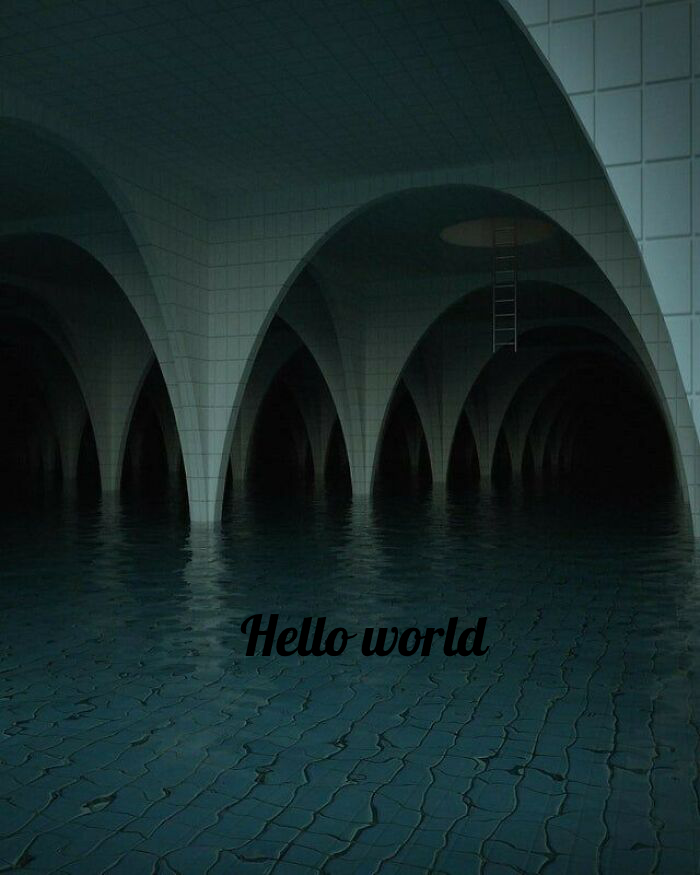
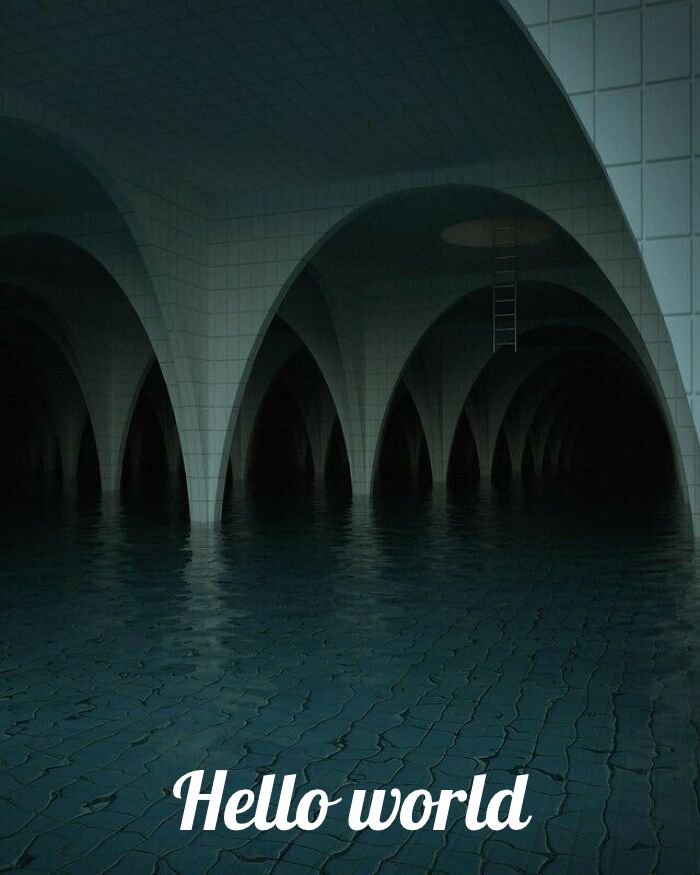
update AddText

Changed region(s): [[0.24, 0.864, 0.75, 0.9566], [0.33, 0.6789, 0.69, 0.7714]]

diff --git a/src/operations/addText.c b/src/operations/addText.c
@@ -6,7 +6,7 @@
 #include <string.h>
 #include <stdlib.h>
 
-OpenIPLErrorInfo imgAddText(Img* img, int x, int y, char* text, unsigned fontSize, const OIPLFont* font)
+OpenIPLErrorInfo imgAddText(Img* img, int centerX, int centerY, char* text, unsigned fontSize, const OIPLFont* font, int r, int g, int b)
 {
     if (!img || !img->data)
         return ERROR_LOADING_IMAGE;
@@ -14,10 +14,35 @@ OpenIPLErrorInfo imgAddText(Img* img, int x, int y, char* text, unsigned fontSiz
     float scale = fontGetScaleForPixelHeight(font, (float)fontSize);
     int ascent, descent, lineGap;
     stbtt_GetFontVMetrics(&font->fontInfo, &ascent, &descent, &lineGap);
-    int baseline = (int)(ascent * scale);
 
-    int penX = x;
-    int penY = y + baseline;
+    int lineHeight = (int)((ascent - descent + lineGap) * scale);
+
+    int textWidth = 0;
+    for (size_t i = 0; text[i] != '\0'; i++)
+    {
+        if (text[i] == ' ')
+        {
+            int advanceWidth, leftSideBearing;
+            stbtt_GetCodepointHMetrics(&font->fontInfo, text[i], &advanceWidth, &leftSideBearing);
+            textWidth += (int)(advanceWidth * scale);
+        }
+        else
+        {
+            int advanceWidth, leftSideBearing;
+            stbtt_GetCodepointHMetrics(&font->fontInfo, text[i], &advanceWidth, &leftSideBearing);
+
+            if (text[i + 1])
+            {
+                int kern = stbtt_GetCodepointKernAdvance(&font->fontInfo, text[i], text[i + 1]);
+                textWidth += (int)(kern * scale);
+            }
+
+            textWidth += (int)(advanceWidth * scale);
+        }
+    }
+
+    int penX = centerX - textWidth / 2;
+    int penY = centerY - lineHeight / 2 + (int)(ascent * scale);
 
     for (size_t i = 0; text[i] != '\0'; i++)
     {
@@ -48,9 +73,9 @@ OpenIPLErrorInfo imgAddText(Img* img, int x, int y, char* text, unsigned fontSiz
                     int index = (imgY * img->width + imgX) * img->channels;
                     unsigned char glyphValue = glyphBitmap[gy * width + gx];
 
-                    img->data[index] = (img->data[index] * (255 - glyphValue) + 0 * glyphValue) / 255;         // Red
-                    img->data[index + 1] = (img->data[index + 1] * (255 - glyphValue) + 0 * glyphValue) / 255; // Green
-                    img->data[index + 2] = (img->data[index + 2] * (255 - glyphValue) + 0 * glyphValue) / 255; // Blue
+                    img->data[index] = (img->data[index] * (255 - glyphValue) + r * glyphValue) / 255;         // Red
+                    img->data[index + 1] = (img->data[index + 1] * (255 - glyphValue) + g * glyphValue) / 255; // Green
+                    img->data[index + 2] = (img->data[index + 2] * (255 - glyphValue) + b * glyphValue) / 255; // Blue
                 }
             }
         }
@@ -60,7 +85,7 @@ OpenIPLErrorInfo imgAddText(Img* img, int x, int y, char* text, unsigned fontSiz
 
         penX += (int)(advanceWidth * scale);
 
-        if (text[i + 1]) 
+        if (text[i + 1])
         {
             int kern = stbtt_GetCodepointKernAdvance(&font->fontInfo, text[i], text[i + 1]);
             penX += (int)(kern * scale);

diff --git a/scripts/tests.c b/scripts/tests.c
@@ -11,7 +11,7 @@ typedef OpenIPLErrorInfo(*ImgOperationWithRGB)(Img*, float, float, float);
 typedef OpenIPLErrorInfo(*ImgOperationWithSize)(Img*, int, int);
 typedef OpenIPLErrorInfo(*ImgOperationWithIterations)(Img*, unsigned);
 typedef OpenIPLErrorInfo(*ImgOperationWithShift)(Img*, int, int, int, int, float);
-typedef OpenIPLErrorInfo(*ImgOperationWithFont)(Img*, int, int, char*, unsigned, OIPLFont*);
+typedef OpenIPLErrorInfo(*ImgOperationWithFont)(Img*, int, int, char*, unsigned, OIPLFont*, int, int, int);
 
 void testFunction(void* func, int argType, char* outputPath, char* sourcePath, ...);
 void printErr(OpenIPLErrorInfo* err);
@@ -49,7 +49,7 @@ int main()
 
     testFunction(imgTint, FUNC_WITH_RGB, "examples\\Tint\\Tint.png", "examples\\Tint\\source.png", 1.2f, 1.0f, 0.8f);
 
-    testFunction(imgAddText, FUNC_WITH_FONT, "examples\\AddText\\AddText.png", "examples\\AddText\\source.png", 240, 600, "Hello world", 70);
+    testFunction(imgAddText, FUNC_WITH_FONT, "examples\\AddText\\AddText.png", "examples\\AddText\\source.png", 350, 800, "Hello world", 100, 255, 255, 255);
 
     return 0;
 }
@@ -129,13 +129,16 @@ void testFunction(void* func, int argType, char* outputPath, char* sourcePath, .
             int y = va_arg(args, int);
             char* text = va_arg(args, char*);
             unsigned size = va_arg(args, unsigned);
+            int r = va_arg(args, int);
+            int g = va_arg(args, int);
+            int b = va_arg(args, int);
 
             OIPLFont font;
             err = fontLoadFromFile("examples\\AddText\\Lobster-Regular.ttf", &font);
             if (err.code)
                 goto error;
              
-            err = operation(img, x, y, text, size, &font);
+            err = operation(img, x, y, text, size, &font, r, g, b);
             if (err.code)
                 goto error;
 

diff --git a/src/OpenIPL.h b/src/OpenIPL.h
@@ -33,4 +33,4 @@ OpenIPLErrorInfo imgTurn90(Img* img);
 OpenIPLErrorInfo imgBilinearInterpolation(Img* img, int height, int width);
 OpenIPLErrorInfo imgSharpen(Img* img);
 OpenIPLErrorInfo imgChromaticAberration(Img* img, int bX, int bY, int rX, int rY, float threshold);
-OpenIPLErrorInfo imgAddText(Img* img, int x, int y, char* text, unsigned fontSize, const OIPLFont* font);
+OpenIPLErrorInfo imgAddText(Img* img, int centerX, int centerY, char* text, unsigned fontSize, const OIPLFont* font, int r, int g, int b);
